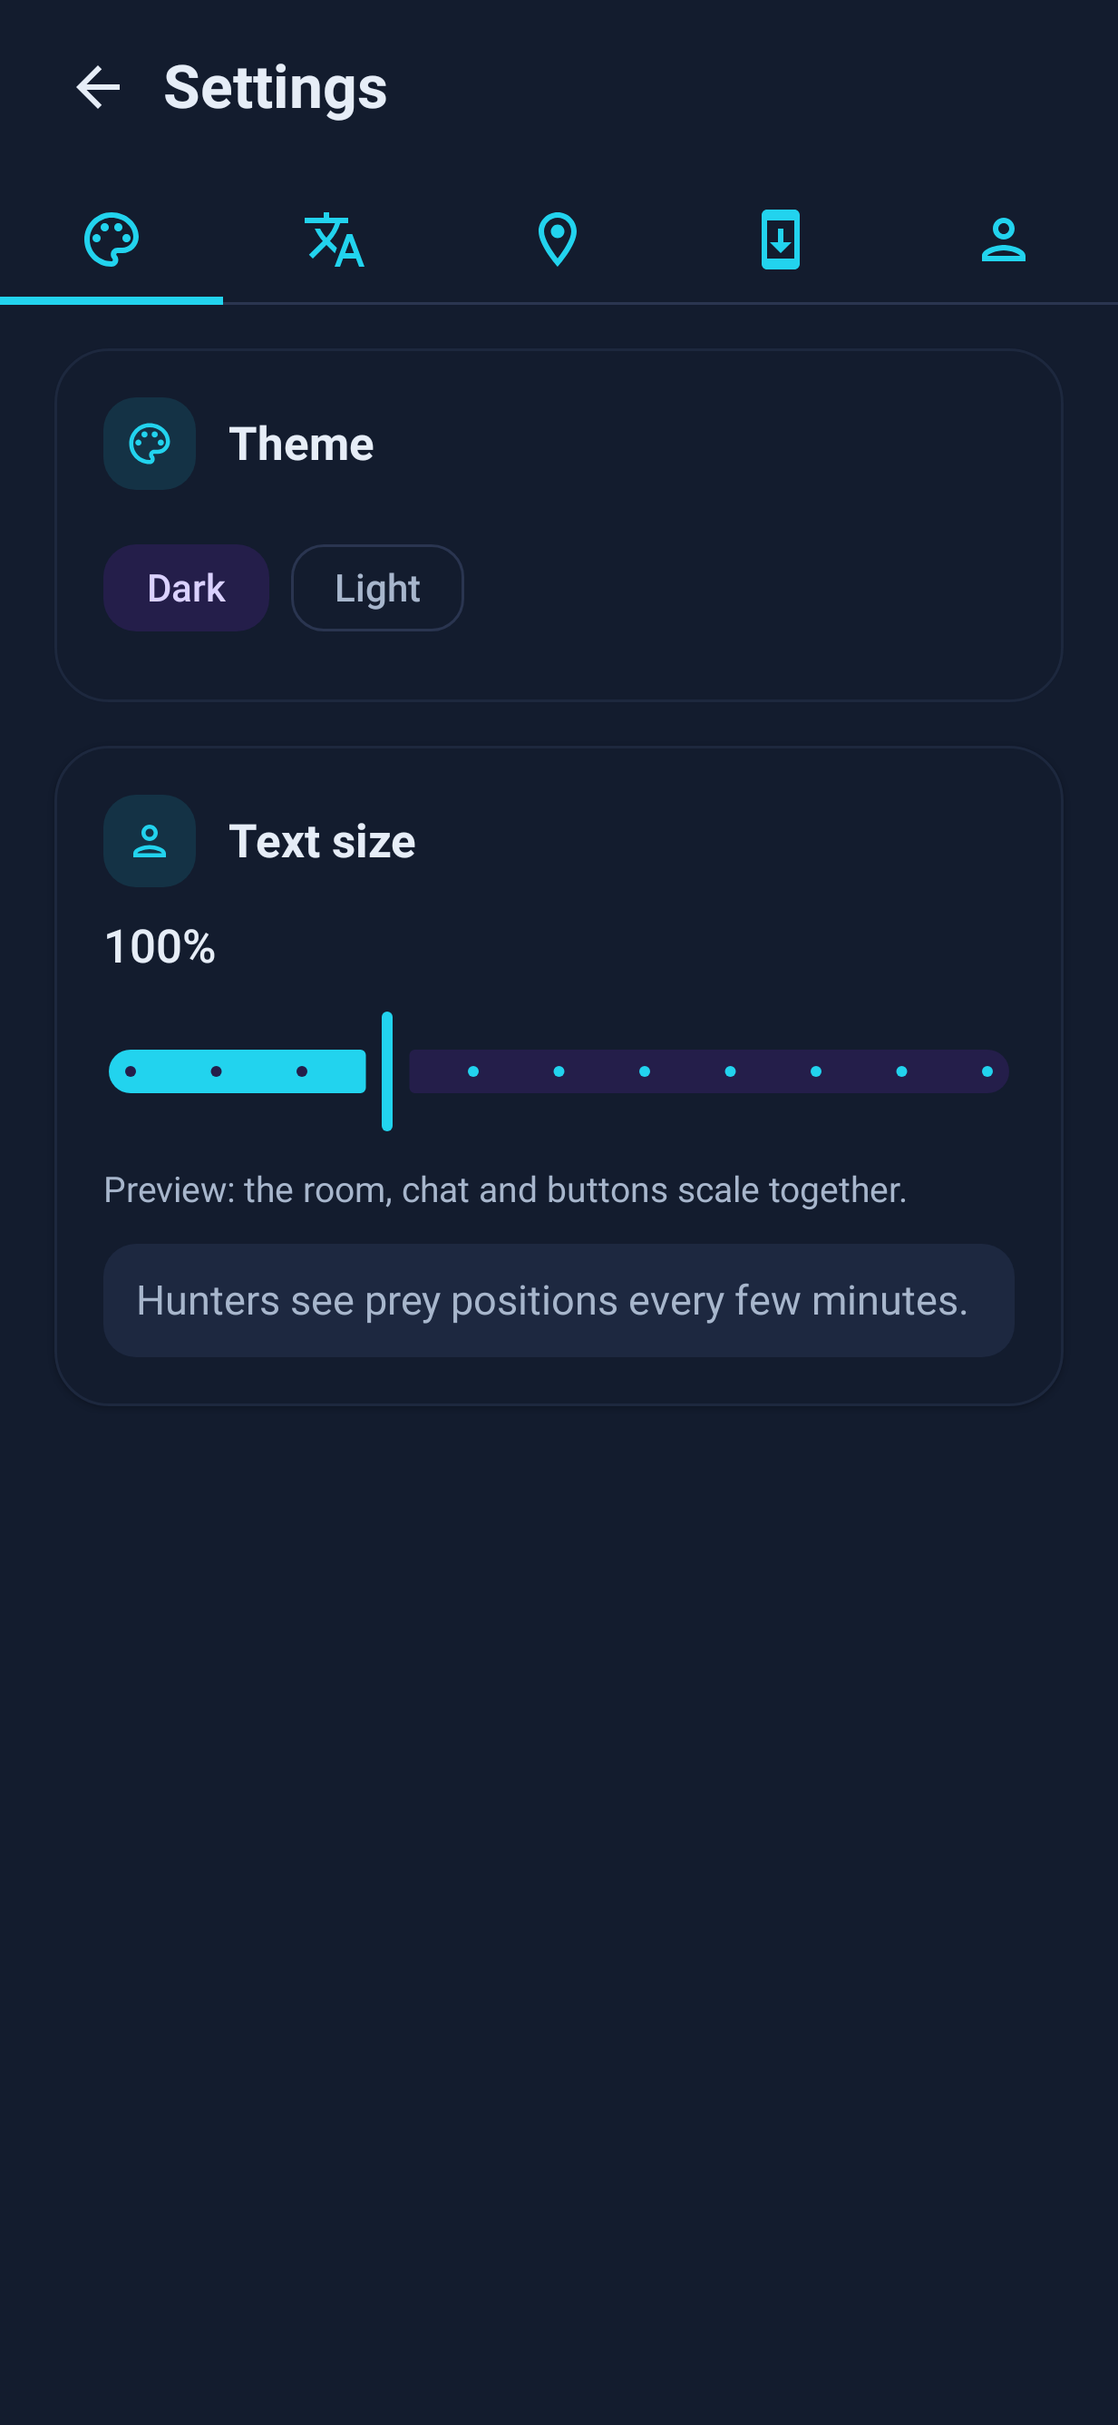
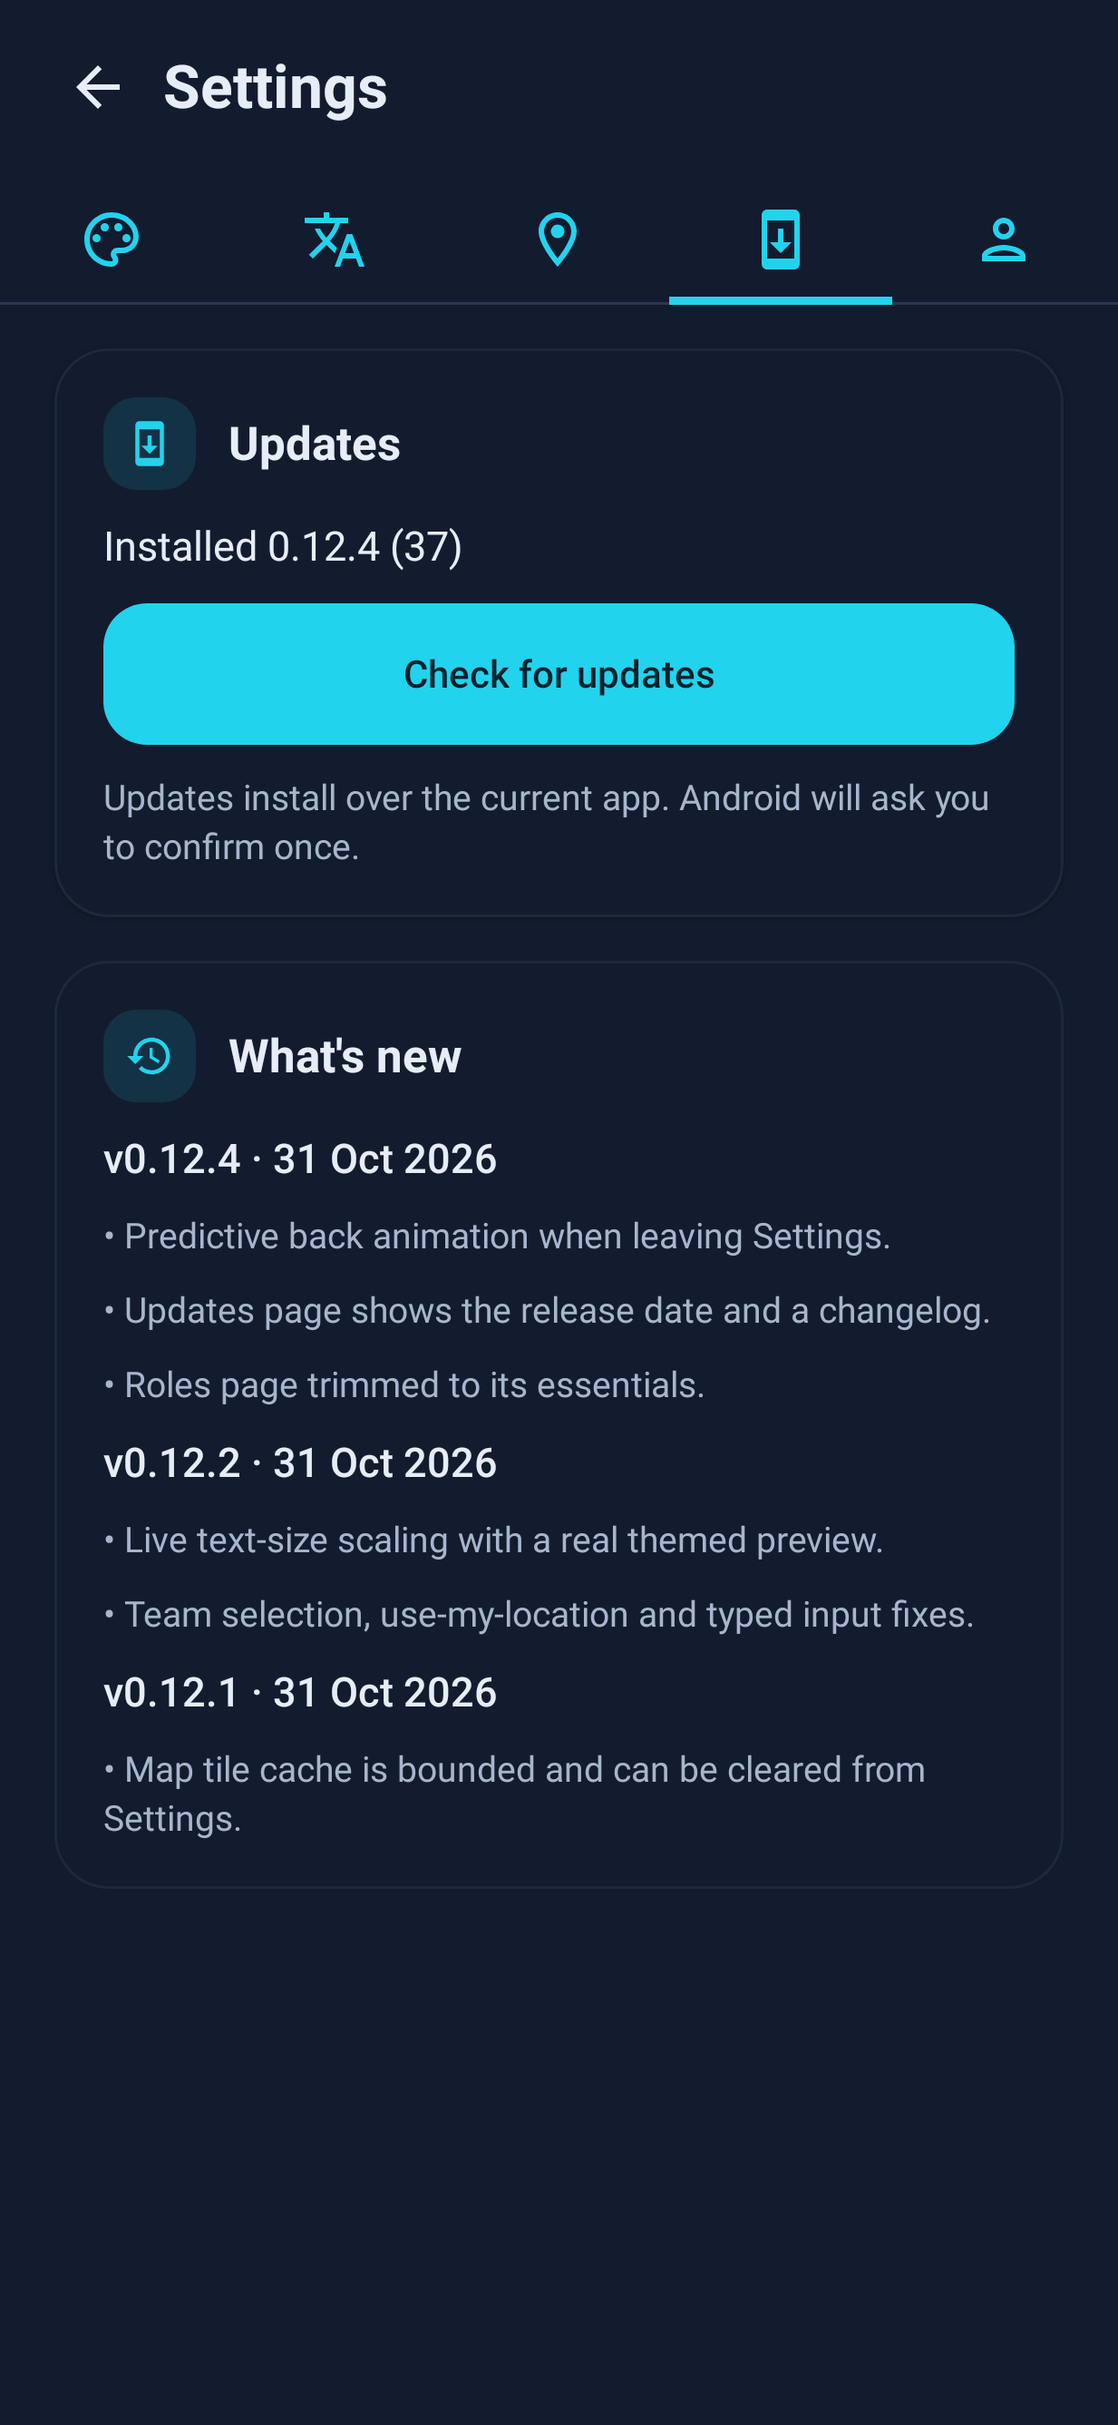
feat(v0.12.4): predictive back animation, dated changelog box on Updates
- Settings/Roles now use predictive back: the screen scales/slides with the system gesture
  and returns Home on completion, so back no longer closes the app. Manifest opts in to
  OnBackInvokedCallback; emulator smoke test asserts Settings back lands on Home.
- Updates page shows the release date and a 'What's new' changelog card (bundled recent
  fallback + manifest notes when an update is available).
- Release workflow takes each release body from CHANGELOG.md; publish script now copies the
  release body and real publication date into app-latest.json (plain-text notes).
- README settings screenshot updated to show the changelog; changelog file added.
- Version 0.12.4 (versionCode 37).

diff --git a/android/app/src/main/java/com/manhunt/app/ui/SettingsScreen.kt b/android/app/src/main/java/com/manhunt/app/ui/SettingsScreen.kt
@@ -29,6 +29,7 @@ import androidx.compose.material.icons.outlined.Storage
 import androidx.compose.material.icons.outlined.SystemUpdate
 import androidx.compose.material.icons.outlined.Translate
 import androidx.compose.material.icons.outlined.Wifi
+import androidx.compose.material.icons.outlined.History
 import androidx.compose.material3.FilterChip
 import androidx.compose.material3.Icon
 import androidx.compose.material3.LinearProgressIndicator
@@ -65,6 +66,8 @@ import androidx.compose.ui.unit.dp
 import androidx.core.content.ContextCompat
 import com.manhunt.app.Graph
 import com.manhunt.app.data.AppStorage
+import com.manhunt.app.data.Changelog
+import com.manhunt.app.data.ChangelogEntry
 import com.manhunt.app.data.UpdateManager
 import com.manhunt.app.i18n.AppLanguage
 import com.manhunt.app.i18n.t
@@ -74,6 +77,12 @@ import com.manhunt.app.ui.theme.ManHuntSpacing
 import kotlinx.coroutines.Dispatchers
 import kotlinx.coroutines.launch
 import kotlinx.coroutines.withContext
+import java.time.Instant
+import java.time.LocalDate
+import java.time.OffsetDateTime
+import java.time.ZoneId
+import java.time.format.DateTimeFormatter
+import java.util.Locale
 
 private enum class SettingsTab(val label: String, val icon: ImageVector) {
     Appearance("Appearance", Icons.Outlined.Palette),
@@ -247,6 +256,7 @@ private fun UpdateTab() {
     val context = LocalContext.current
     val scope = rememberCoroutineScope()
     val repo = Graph.container.repository
+    val language by repo.language.collectAsState()
     val manager = remember {
         UpdateManager(context.applicationContext, Graph.container.httpClient, { repo.serverUrl })
     }
@@ -295,11 +305,15 @@ private fun UpdateTab() {
         latest?.let { update ->
             if (update.versionCode > com.manhunt.app.BuildConfig.VERSION_CODE) {
                 Text(
-                    "v${update.versionName} | ${(update.size / 1024 / 1024)} MB",
+                    "v${update.versionName} · ${(update.size / 1024 / 1024)} MB",
                     style = MaterialTheme.typography.titleMedium,
                 )
-                update.notes?.let {
-                    Text(it, style = MaterialTheme.typography.bodySmall, color = MaterialTheme.colorScheme.onSurfaceVariant)
+                formatReleaseDate(update.publishedAt)?.let { published ->
+                    Text(
+                        "${t("Released")} $published",
+                        style = MaterialTheme.typography.bodySmall,
+                        color = MaterialTheme.colorScheme.onSurfaceVariant,
+                    )
                 }
                 if (downloaded == null) {
                     PrimaryButton(
@@ -371,6 +385,75 @@ private fun UpdateTab() {
             color = MaterialTheme.colorScheme.onSurfaceVariant,
         )
     }
+
+    ChangelogCard(
+        update = latest?.takeIf { it.versionCode > com.manhunt.app.BuildConfig.VERSION_CODE },
+        language = language,
+    )
+}
+
+/**
+ * Version/date block for releases. Prefer the update manifest's notes (written from the
+ * release body); fall back to the bundled recent-changes list when offline.
+ */
+@Composable
+private fun ChangelogCard(update: com.manhunt.app.data.AppUpdate?, language: AppLanguage) {
+    ScreenCard(title = t("What's new"), icon = Icons.Outlined.History) {
+        val notes = update?.notes?.trim().orEmpty()
+        if (notes.isNotEmpty()) {
+            Text(
+                "v${update?.versionName.orEmpty()}",
+                style = MaterialTheme.typography.titleSmall,
+                fontWeight = FontWeight.SemiBold,
+            )
+            formatReleaseDate(update?.publishedAt)?.let { published ->
+                Text(
+                    "${t("Released")} $published",
+                    style = MaterialTheme.typography.bodySmall,
+                    color = MaterialTheme.colorScheme.onSurfaceVariant,
+                )
+            }
+            Text(
+                notes,
+                style = MaterialTheme.typography.bodySmall,
+                color = MaterialTheme.colorScheme.onSurfaceVariant,
+            )
+        } else {
+            Changelog.recent.take(3).forEach { entry -> ChangelogEntryBlock(entry, language) }
+        }
+    }
+}
+
+@Composable
+private fun ChangelogEntryBlock(entry: ChangelogEntry, language: AppLanguage) {
+    Text(
+        "v${entry.version} · ${formatChangelogDate(entry.date, language)}",
+        style = MaterialTheme.typography.titleSmall,
+        fontWeight = FontWeight.SemiBold,
+    )
+    entry.changes.forEach { change ->
+        Text(
+            "• ${t(change)}",
+            style = MaterialTheme.typography.bodySmall,
+            color = MaterialTheme.colorScheme.onSurfaceVariant,
+        )
+    }
+}
+
+private fun formatReleaseDate(iso: String?): String? {
+    if (iso.isNullOrBlank()) return null
+    val instant = runCatching { Instant.parse(iso) }.getOrNull()
+        ?: runCatching { OffsetDateTime.parse(iso).toInstant() }.getOrNull()
+    val date = instant?.atZone(ZoneId.systemDefault())?.toLocalDate()
+        ?: runCatching { LocalDate.parse(iso.take(10)) }.getOrNull()
+    return date?.format(DateTimeFormatter.ofPattern("d MMM yyyy", Locale.ENGLISH))
+}
+
+private fun formatChangelogDate(isoDate: String, language: AppLanguage): String {
+    val locale = if (language == AppLanguage.Arabic) Locale("ar") else Locale.ENGLISH
+    return runCatching {
+        LocalDate.parse(isoDate).format(DateTimeFormatter.ofPattern("d MMM yyyy", locale))
+    }.getOrDefault(isoDate)
 }
 
 @Composable

diff --git a/android/app/src/main/java/com/manhunt/app/ui/AppRoot.kt b/android/app/src/main/java/com/manhunt/app/ui/AppRoot.kt
@@ -1,6 +1,6 @@
 package com.manhunt.app.ui
 
-import androidx.activity.compose.BackHandler
+import androidx.activity.compose.PredictiveBackHandler
 import androidx.compose.animation.AnimatedContent
 import androidx.compose.animation.core.tween
 import androidx.compose.animation.fadeIn
@@ -18,10 +18,13 @@ import androidx.compose.runtime.CompositionLocalProvider
 import androidx.compose.runtime.LaunchedEffect
 import androidx.compose.runtime.collectAsState
 import androidx.compose.runtime.getValue
+import androidx.compose.runtime.mutableFloatStateOf
 import androidx.compose.runtime.mutableStateOf
+import androidx.compose.runtime.remember
 import androidx.compose.runtime.saveable.rememberSaveable
 import androidx.compose.runtime.setValue
 import androidx.compose.ui.Modifier
+import androidx.compose.ui.graphics.graphicsLayer
 import androidx.compose.ui.platform.LocalContext
 import androidx.compose.ui.platform.LocalLayoutDirection
 import androidx.compose.ui.unit.LayoutDirection
@@ -34,6 +37,8 @@ import com.manhunt.app.i18n.arabicStrings
 import com.manhunt.app.i18n.t
 import com.manhunt.app.ui.theme.ManHuntTheme
 import com.manhunt.app.ui.theme.Motion
+import kotlinx.coroutines.CancellationException
+import kotlinx.coroutines.flow.collect
 
 sealed interface Route {
     data object Safety : Route
@@ -70,8 +75,20 @@ fun AppRoot() {
 
     LaunchedEffect(Unit) { repo.restoreSession() }
 
-    // System back on the settings screen returns Home instead of finishing the Activity.
-    BackHandler(enabled = routeKey == "settings") { routeKey = "home" }
+    // Predictive back: while a system back gesture is in progress over Settings/Roles, the
+    // screen follows the finger (scale/slide) and then navigates Home on completion.
+    var backProgress by remember { mutableFloatStateOf(0f) }
+    val canPredictiveBack = routeKey == "settings" || routeKey == "roles"
+    PredictiveBackHandler(enabled = canPredictiveBack) { progressEvents ->
+        try {
+            progressEvents.collect { event -> backProgress = event.progress }
+        } catch (cancel: CancellationException) {
+            backProgress = 0f
+            throw cancel
+        }
+        backProgress = 0f
+        routeKey = "home"
+    }
 
     LaunchedEffect(session, safetyAccepted) {
         routeKey = when {
@@ -113,6 +130,17 @@ fun AppRoot() {
                 val isRtl = LocalLayoutDirection.current == LayoutDirection.Rtl
                 AnimatedContent(
                     targetState = route,
+                    modifier = Modifier.graphicsLayer {
+                        // Read the gesture progress inside the draw/layout lambda so the
+                        // animation does not recompose the whole screen for every frame.
+                        val p = backProgress.coerceIn(0f, 1f)
+                        if (p > 0f) {
+                            scaleX = 1f - 0.08f * p
+                            scaleY = 1f - 0.08f * p
+                            translationX = size.width * 0.06f * p * (if (isRtl) -1f else 1f)
+                            alpha = 1f - 0.16f * p
+                        }
+                    },
                     transitionSpec = {
                         (fadeIn(tween(Motion.EMPHASIZED, easing = Motion.EaseOutExpo)) +
                             slideInHorizontally(tween(Motion.EMPHASIZED, easing = Motion.EaseOutExpo)) {

diff --git a/android/app/src/main/java/com/manhunt/app/i18n/Localization.kt b/android/app/src/main/java/com/manhunt/app/i18n/Localization.kt
@@ -305,6 +305,19 @@ private val arabic: Map<String, String> = mapOf(
         "اسمح بتثبيت التطبيقات من ManHunt، ثم اضغط تثبيت التحديث مرة أخرى.",
     "Updates install over the current app (same signing key); Android will ask you to confirm once." to
         "تُثبَّت التحديثات فوق التطبيق الحالي (بنفس مفتاح التوقيع)؛ وسيطلب أندرويد التأكيد مرة واحدة.",
+    "What's new" to "ما الجديد",
+    "Released" to "صدر في",
+    "Predictive back animation when leaving Settings." to
+        "حركة رجوع تنبؤية عند مغادرة الإعدادات.",
+    "Updates page shows the release date and a changelog." to
+        "تعرض صفحة التحديثات تاريخ الإصدار وسجل التغييرات.",
+    "Roles page trimmed to its essentials." to "تم تبسيط صفحة الأدوار إلى الأساسيات.",
+    "Live text-size scaling with a real themed preview." to
+        "تكبير حجم النص مباشرة مع معاينة حقيقية.",
+    "Team selection, use-my-location and typed input fixes." to
+        "إصلاحات لاختيار الفريق واستخدام موقعي وإدخال البيانات.",
+    "Map tile cache is bounded and can be cleared from Settings." to
+        "ذاكرة بلاطات الخريطة محدودة ويمكن مسحها من الإعدادات.",
     "Signed in as" to "مسجّل الدخول باسم",
     "Server" to "الخادم",
     "To change the server, sign out and edit it on the sign-in screen." to

diff --git a/android/app/src/main/java/com/manhunt/app/data/Changelog.kt b/android/app/src/main/java/com/manhunt/app/data/Changelog.kt
@@ -1,0 +1,43 @@
+package com.manhunt.app.data
+
+/** A release note entry shown on Settings → Updates. */
+data class ChangelogEntry(
+    val version: String,
+    /** ISO local date, e.g. 2026-10-31. */
+    val date: String,
+    /** English source keys resolved through t(). */
+    val changes: List<String>,
+)
+
+/**
+ * Bundled fallback changelog. The update manifest's notes are preferred when available;
+ * this keeps the Updates page useful offline and for the currently installed build.
+ */
+object Changelog {
+    val recent: List<ChangelogEntry> = listOf(
+        ChangelogEntry(
+            version = "0.12.4",
+            date = "2026-10-31",
+            changes = listOf(
+                "Predictive back animation when leaving Settings.",
+                "Updates page shows the release date and a changelog.",
+                "Roles page trimmed to its essentials.",
+            ),
+        ),
+        ChangelogEntry(
+            version = "0.12.2",
+            date = "2026-10-31",
+            changes = listOf(
+                "Live text-size scaling with a real themed preview.",
+                "Team selection, use-my-location and typed input fixes.",
+            ),
+        ),
+        ChangelogEntry(
+            version = "0.12.1",
+            date = "2026-10-31",
+            changes = listOf(
+                "Map tile cache is bounded and can be cleared from Settings.",
+            ),
+        ),
+    )
+}

diff --git a/android/app/src/androidTest/java/com/manhunt/app/InGameSmokeTest.kt b/android/app/src/androidTest/java/com/manhunt/app/InGameSmokeTest.kt
@@ -134,6 +134,15 @@ class InGameSmokeTest {
             println(compose.onRoot().printToString())
             throw failure
         }
+
+        // Regression: system back from Settings must return Home, not finish the Activity.
+        compose.onNodeWithTag("home_settings").performClick()
+        waitForTag("settings_tab_0", 20_000)
+        compose.activityRule.scenario.onActivity { activity ->
+            activity.onBackPressedDispatcher.onBackPressed()
+        }
+        waitForTag("home_room_name", 20_000)
+
         compose.onNodeWithTag("home_room_name").performTextInput("CI Room")
         compose.onNodeWithTag("home_create").performClick()
         waitForTag("room_code")

diff --git a/CHANGELOG.md b/CHANGELOG.md
@@ -1,0 +1,60 @@
+# Changelog
+
+All notable changes to ManHunt are recorded here. The release workflow copies the section
+for a tag into the GitHub Release body, and the in-app Updates page shows that text plus the
+release date.
+
+## [0.12.4] — 2026-10-31
+
+### Added
+
+- Predictive-back animation when leaving Settings/Roles with the system back gesture:
+  the screen now follows the finger (scale/slide) before navigating Home.
+- Settings → Updates now shows the release date and a “What’s new” changelog box.
+- Bundled recent-changes fallback so the Updates page is useful before/without a network check.
+
+### Changed
+
+- Roles page trimmed to its essentials (removed the extra “What you need” and “Play safe”
+  cards per owner direction).
+
+## [0.12.3] — 2026-10-31
+
+### Changed
+
+- Removed the Roles “What you need” and “Play safe” cards.
+
+## [0.12.2] — 2026-10-31
+
+### Added
+
+- Live whole-app text scaling on the text-size slider, with the sample line now using real
+  themed text instead of a double-scaled preview.
+- Input rules: username grammar, 6-character alphanumeric invite codes, digit-only rule
+  fields, coordinate filtering and save-time range validation.
+- A real one-shot location fix backs “Use my location” in the zone settings.
+
+### Fixed
+
+- Only the selected team card glows; the unselected side uses a neutral outline.
+- Lint-clean `DeviceLocation` permission handling.
+
+## [0.12.1] — 2026-10-31
+
+### Fixed
+
+- Bound the osmdroid map-tile cache (48 MB max / 32 MB trim) and added Settings → Storage
+  with cache size and clear action.
+- Pruned downloaded update APKs from older versions.
+
+## [0.12.0] — 2026-10-31
+
+### Added
+
+- Robolectric screenshot tour for all primary screens and button-state tests.
+- Home “How it works” card, version-free README and brand brief groundwork.
+
+### Changed
+
+- Roles/Settings/Home polish: centered role headings, single Roles entry point, Home
+  tagline, Settings Account cleanup.

diff --git a/README.md b/README.md
@@ -21,7 +21,7 @@ chat — so a phone can lose signal or restart without breaking the game.
 
 | Settings | Hunt result |
 |---|---|
-| ![Settings: appearance and text size](docs/screenshots/07-settings.png) | ![Hunt result dialog](docs/screenshots/08-hunt-result.png) |
+| ![Settings: updates, release date and changelog](docs/screenshots/07-settings.png) | ![Hunt result dialog](docs/screenshots/08-hunt-result.png) |
 
 The room screenshots are captured by the real-emulator CI job; the rest come from the
 Robolectric screenshot tests. Map tiles come from OpenStreetMap at runtime and need network access;
@@ -37,6 +37,7 @@ with its SHA-256.** You can also take the release straight from GitHub:
 |---|---|
 | Install page (hosted test server) | <http://74.208.99.178/> |
 | GitHub releases | [latest release](https://github.com/MostafaAshry513/ManHunt/releases/latest) — APK + `.sha256` |
+| Changelog | [CHANGELOG.md](CHANGELOG.md) |
 
 - **Requires Android 8.0 (API 26) or newer**; the APK is about 2 MB. The release APK is a signed
   `assembleRelease` build produced and signed by GitHub Actions.
